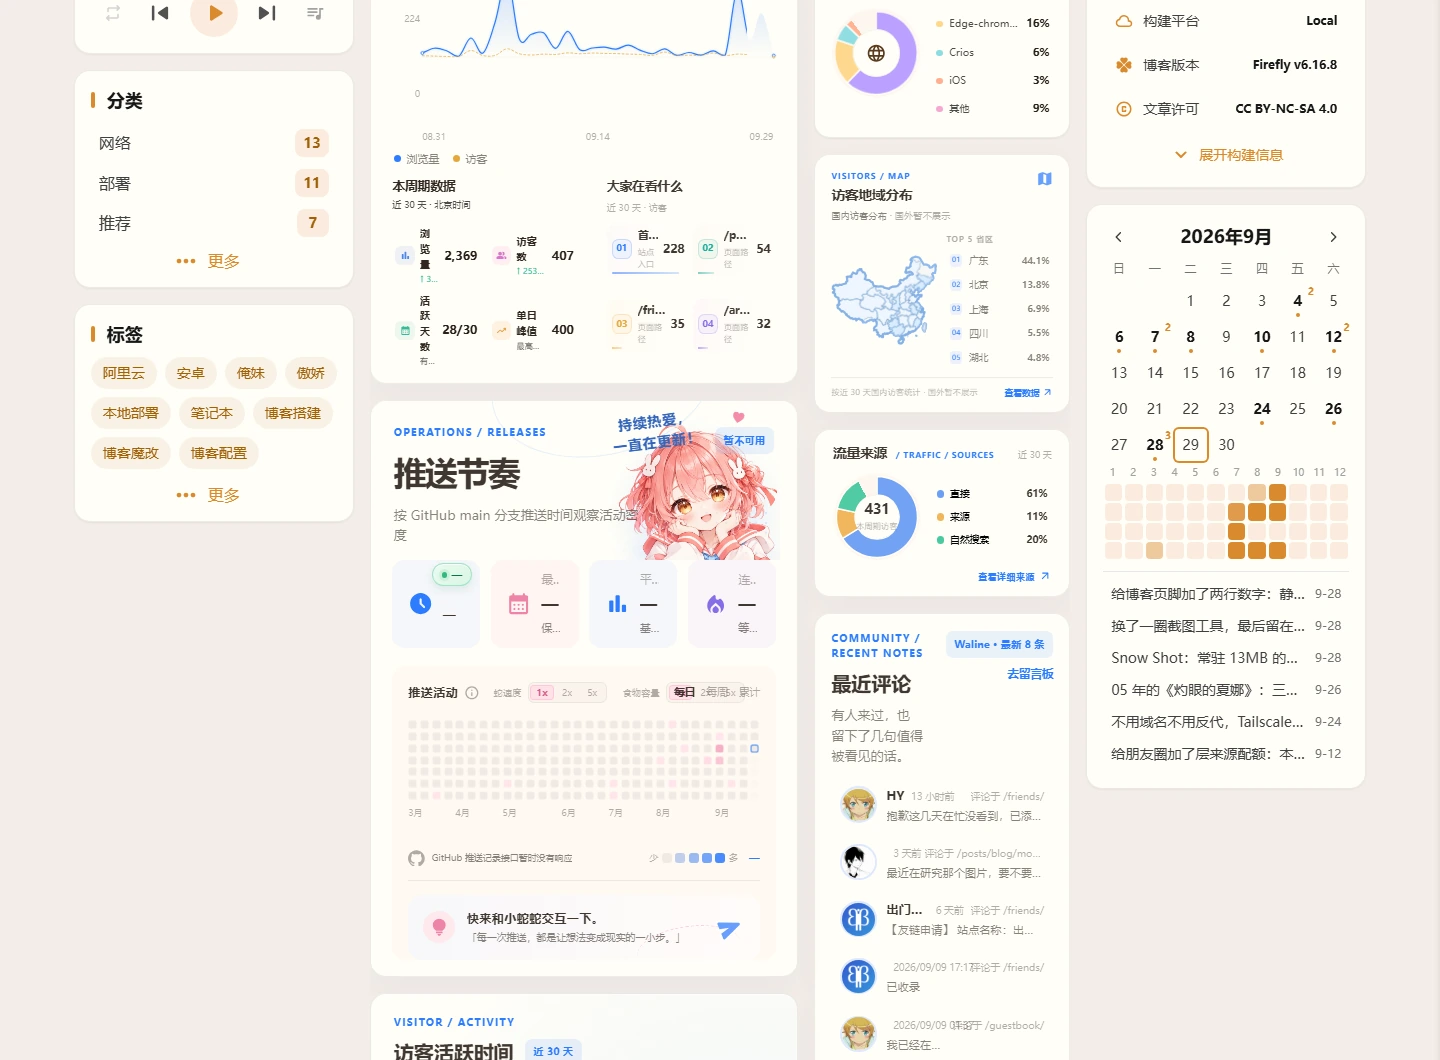
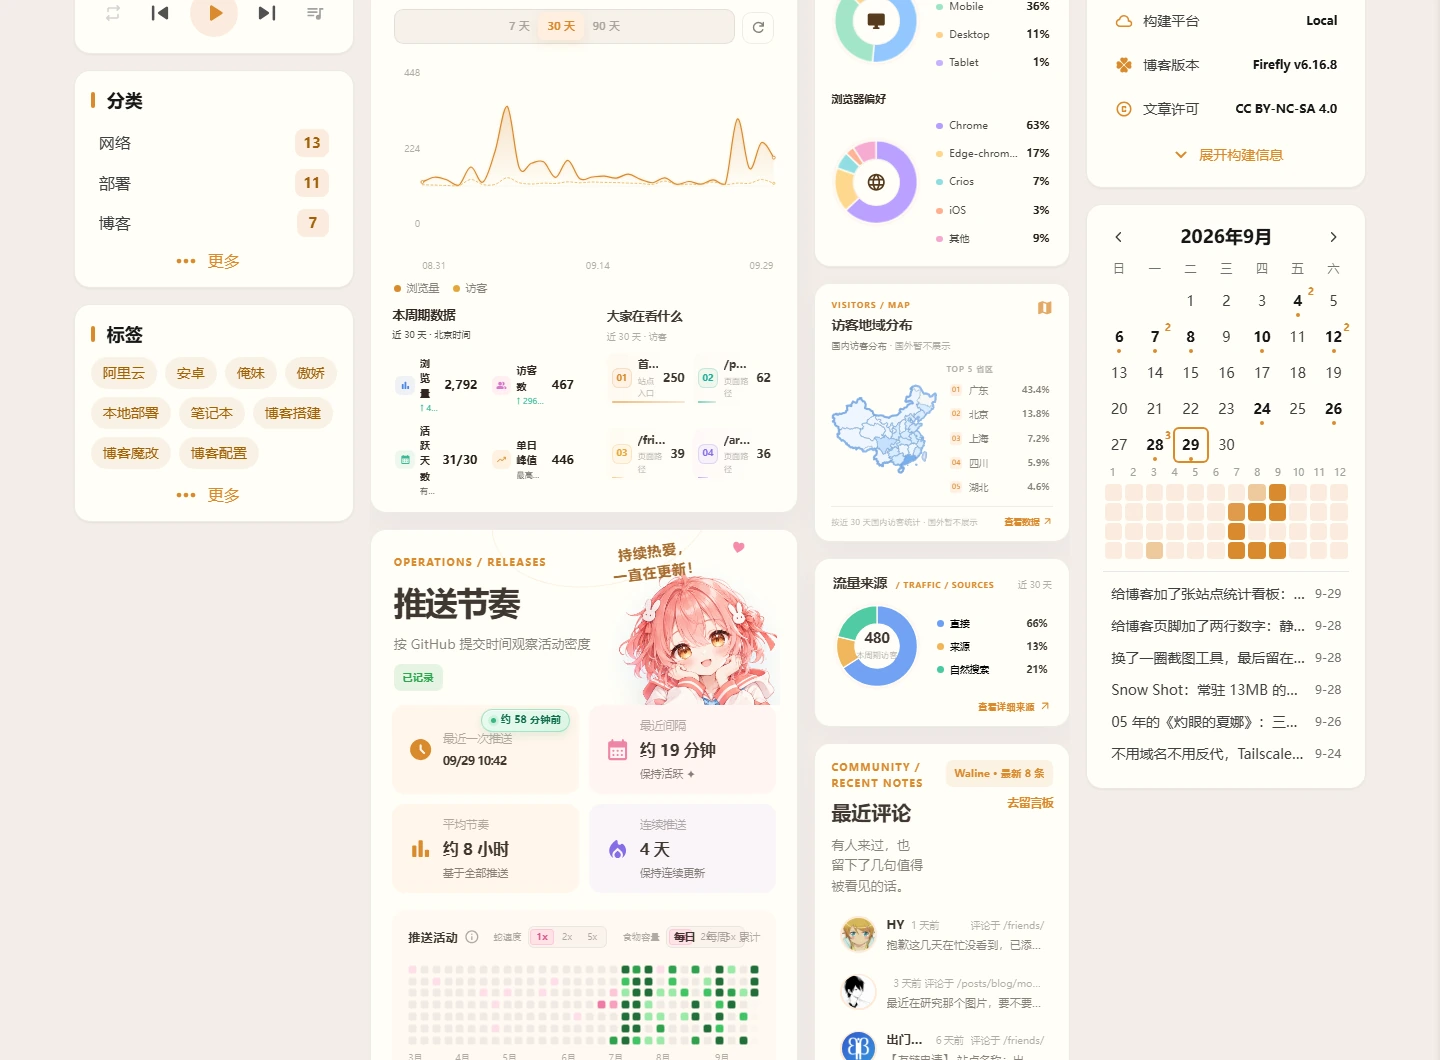
docs(post): 补《站点统计看板》的上线后四轮调整，并重截配图
新增「上线后又改了四轮」一节：主题色适配、fork 导致的提交数七倍误差（含排查思路：先怀疑限流与参数、最后靠接口里加日志一次定位）、热力图改 GitHub 绿与角标归位、Umami 外链指向公开分享页。

三张配图按最新构建重截（现在能看到绿色热力图与归位后的角标）。

diff --git a/src/content/posts/blog/AnalyticsDashboard/index.md b/src/content/posts/blog/AnalyticsDashboard/index.md
@@ -1,7 +1,7 @@
 ---
 title: "给博客加了张站点统计看板：自研翻车之后直接抄了整份实现"
 published: 2026-09-29
-description: "看上 rainzt.cn 的 /analytics/ 之后，我先照着自己设计了一版——能跑，但完全不是那个味道。被一句「你不会整就去抄人家代码」点醒，去翻同源 fork 的仓库才发现：人家根本不是单个文件，页面将近四千行，外加两个组件，少一个的话页面其余模块全正常、只有四个数字永远停在「加载中」。"
+description: "看上 rainzt.cn 的 /analytics/ 之后，我先照着自己设计了一版——能跑，但完全不是那个味道。被一句「你不会整就去抄人家代码」点醒，去翻同源 fork 的仓库才发现：人家根本不是单个文件，页面将近四千行，外加两个组件，少一个的话页面其余模块全正常、只有四个数字永远停在「加载中」。搬完又改了四轮：整页蓝换成主题色、推送数从 1695 修正到 252、热力图改 GitHub 绿、角标不再压住插画。"
 image: ./images/cover.webp
 tags: [Firefly, Astro, Umami, 博客魔改, 数据看板]
 category: 博客
@@ -78,6 +78,55 @@ draft: false
 ![看板下段：访客活跃时间与最近评论](./images/image-002.webp)
 
 数据全部来自 Umami 的公开分享接口，浏览器直连，**不需要任何后端**——和上一篇页脚统计是同一套路子，只是这次铺得更开。GitHub 提交记录在构建时拉取，Waline 评论走它的公开接口。
+
+## 上线后又改了四轮
+
+部署完之后先自己看了两眼，然后被连着挑了四次毛病。回头看，这四个问题都不是 bug，而是「整份搬过来之后没消化」——功能是别人的，细节也全是别人的。
+
+### 一、整页蓝色，跟站点主题色打架
+
+一开始没注意，直到被指出「UMAMI / PUBLIC TELEMETRY 这种标题适配我的主题色吧，不然有点割裂」。
+
+参考实现把主色写死成 `#2d7cff`，而这个变量被页面里几乎所有彩色元素引用：hero 的 kicker、每个模块的小标题、折线图、7 / 30 / 90 天切换、进度条。所以整页是蓝调，而本站主题是橙黄（`hue: 65`）。
+
+改起来只有一行——`--analytics-blue` 从 `#2d7cff` 换成 `var(--primary)`。`--primary` 本身就有明暗两套取值，暗色模式那边写的那行覆盖也跟着删掉了。
+
+顺带把「访客活跃时间」热力图的 6 级色阶从写死的蓝色改成 `color-mix` 从主色派生，否则暗色模式还得另写一组。有个细节：GitHub 那块热力图的色阶**本来就是 `color-mix` 派生的**，只有这一块写死——参考实现自己就没统一，改之前得 grep 清楚。
+
+### 二、推送数不对：fork 把上游历史也算进来了
+
+这条是真错。热力图底部写着「最近 1690 次」，被一句反问戳穿：**「我的推送没有这么多吧？你这是记录 commit 的吗」**。
+
+`git log HEAD` 和 GitHub 的 `/commits` 接口**默认统计仓库里所有作者的提交**。这个仓库 fork 自 `CuteLeaf/Firefly`，上游那一千多条历史全被算进来了：
+
+| | 条数 |
+|---|---|
+| 仓库全部提交 | 1695 |
+| 我自己的 | **252** |
+
+差了七倍。加上 `--author` 过滤才对。
+
+（顺带一提：GitHub 主页显示「过去一年 125 次贡献」，和这里的 252 又不一样——GitHub 只统计**默认分支**，而我的提交都在 `HY` 分支上。两个数字口径不同，别想着对齐。）
+
+排查时我一度怀疑 API 限流、一度怀疑 `author` 参数不生效，都是白折腾。最后是在接口里加了两行日志，构建日志直接打出「git log 0 条 / API 也 0 条」，一次定位。**早该这么做。**
+
+### 三、热力图要绿色，状态角标别压住插画
+
+「推送热力图改成绿色，符合 GitHub 原版」——有道理，这个模块本来就是在模仿 GitHub 贡献图，用主题色反而不对。换成 GitHub 原版绿阶（`#9be9a8` → `#216e39`），暗色另配一组；「访客活跃时间」那块继续跟主题色，两者正好区分开。
+
+同类的还有两个状态角标：「本地预览 · 已更新」和「已记录」。它们原本是 header 的 flex 子项，而 header 是 `space-between` 布局，右侧又恰好放着角色插画——角标被顶到最右，正好压在插画脸上。把它们挪进标题文案块就解决了。
+
+两处角标、同一个原因，说明这不是偶然，是这套布局的固有倾向。
+
+### 四、Umami 链接点进去是登录页
+
+我把「Umami」做成了外链，但 href 用的是 `shareApiBase`——那是实例根目录，访客点进去只有登录框，等于死链。
+
+改成公开分享页才对：地址由 `shareApiBase` 和 `shareId` 拼出，而不是写死。以后换实例或换 shareId 就自动跟着变。
+
+### 小结
+
+这四轮改下来最大的体会：**「能跑」和「是自己的」是两回事。** 整份搬代码解决的是前者，配色、口径、排版这些细节才是后者。搬完之后最好逐块过一遍，问自己一句「这地方的数据和颜色，真的是我的吗」——第二项那个七倍差距，就是没问这一句的代价。
 
 ## 顺带发现的一个老问题
 
